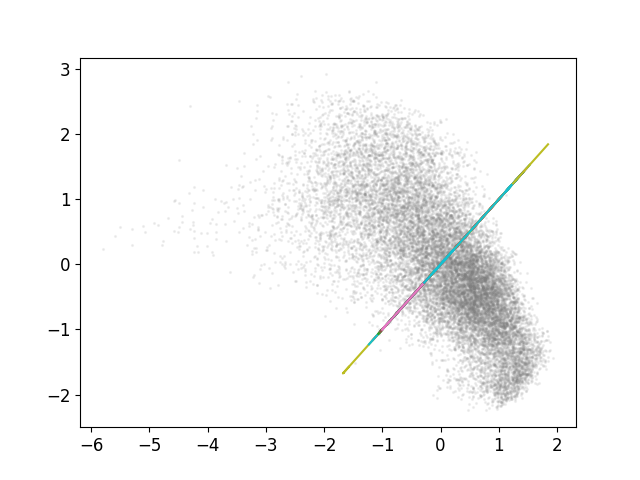
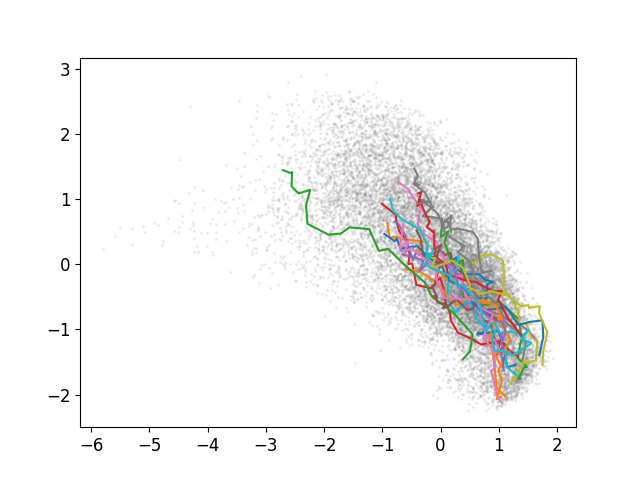
fixed small axis bug

diff --git a/script/EB_Dataset.py b/script/EB_Dataset.py
@@ -63,7 +63,7 @@ result = MLE_IPFP(
 # Plot trajectories
 for i in range(20):
     # import pdb; pdb.set_trace()
-    plt.plot(result[-1][1][i,:,0].cpu().detach().numpy(), result[-1][1][i,:,0].cpu().detach().numpy())
+    plt.plot(result[-1][1][i,:,0].cpu().detach().numpy(), result[-1][1][i,:,1].cpu().detach().numpy())
 
 plt.savefig("../assets/trajectories_EB.png")
 
